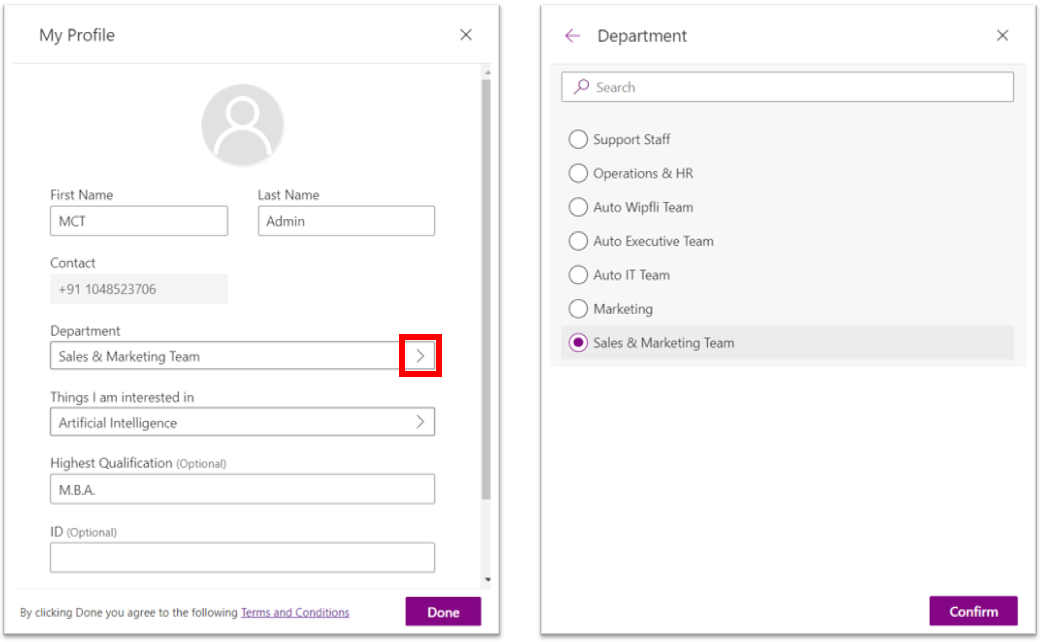
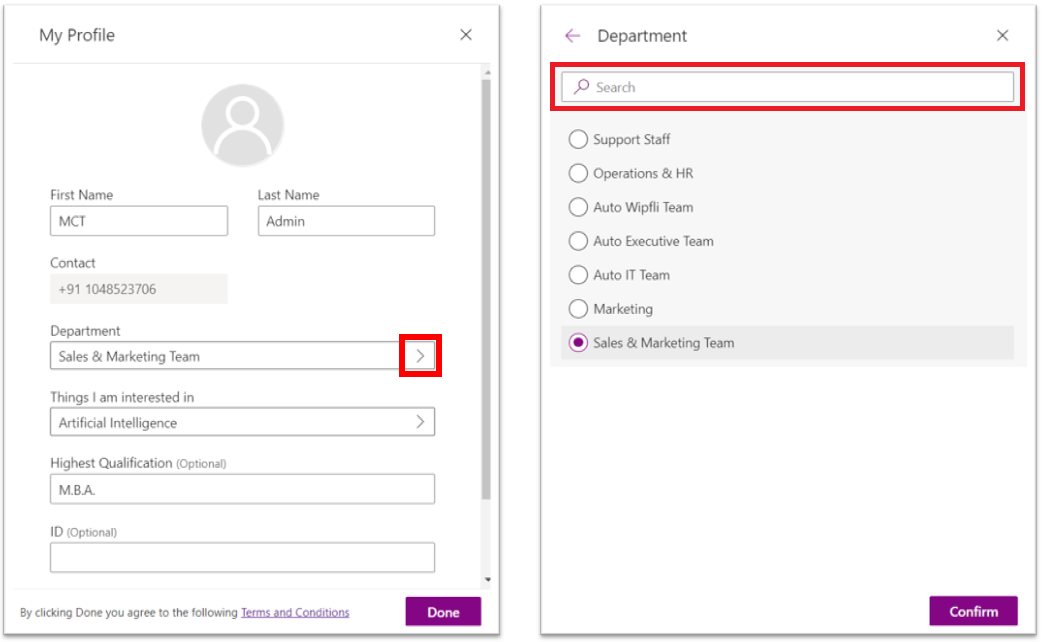
Added learner profile field search

Changed region(s): [[0.5216, 0.0935, 0.9818, 0.1869]]

diff --git a/microsoft-community-training/learner-experience/web-app.md b/microsoft-community-training/learner-experience/web-app.md
@@ -41,6 +41,9 @@ This article explains how learners can access the training content using the web
 2. Modify the profile field(s) as required
     :::image type="content" source="../media/Profile Field - edit from learner view 2.PNG" alt-text="Edit profile field":::
 
+    >[!Tip]
+    >You can now search for the relevant value from a long list of profile field values the Admin has provided. For example, you can search your city name from a list of all cities in your country.
+
 3. Click on **Confirm** and **Done**.
 
 ## Step 3: Choose the language
